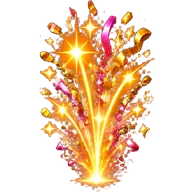
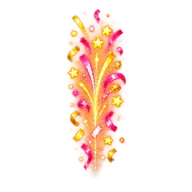
Удержи зал 0.20: фоны всех залов и новое конфетти
- Нарисованные фоны залов 2–5: пятничный бар, студенческая вечеринка, джаз-клуб,
  городской фестиваль.
- Новое конфетти с настоящей прозрачностью.

Claude-Session: https://claude.ai/code/session_01N7MgPggiJUE5CogxDpXCXx

diff --git a/hold-the-room/game.js b/hold-the-room/game.js
@@ -1040,7 +1040,7 @@ if (typeof window !== 'undefined') (function () {
   // Спрайты из assets/. Пока картинка не загрузилась (или её нет), рисуется старая векторная графика.
   const ART = {};
   const ART_NAMES = ['emo-heart', 'emo-note', 'emo-clap', 'gold-heart', 'gold-note', 'gold-clap',
-    'ghost-0', 'ghost-1', 'ghost-2', 'ghost-3', 'body-gray', 'body-color', 'bg-1']
+    'ghost-0', 'ghost-1', 'ghost-2', 'ghost-3', 'body-gray', 'body-color', 'bg-1', 'bg-2', 'bg-3', 'bg-4', 'bg-5']
     .concat(frameNames('spark', 8), frameNames('ring', 8), frameNames('confetti', 10), frameNames('fire', 8), frameNames('smoke', 8))
     .concat([0, 1, 2, 3, 4, 5, 6, 7].flatMap(g => [0, 1, 2].map(k => `v${g}-${k}`))); // зрители: 8 человек × (обычный, ликует, в телефоне)
   function frameNames(base, n) { return Array.from({ length: n }, (_, i) => `${base}-${i}`); }

diff --git a/hold-the-room/version.js b/hold-the-room/version.js
@@ -1,4 +1,4 @@
 // Версия релиза. Увеличивайте при каждой публикации: она видна в главном меню
 // и задаёт версию кэша service worker'а, так что клиенты подхватят обновление.
-const APP_VERSION = '0.19';
+const APP_VERSION = '0.20';
 const APP_DATE = '21.10.2026';

diff --git a/hold-the-room/sw.js b/hold-the-room/sw.js
@@ -93,6 +93,10 @@ const FILES = [
   './assets/v7-1.webp',
   './assets/v7-2.webp',
   './assets/bg-1.webp',
+  './assets/bg-2.webp',
+  './assets/bg-3.webp',
+  './assets/bg-4.webp',
+  './assets/bg-5.webp',
   './music/level1-bossa-antigua.mp3',
   './music/level2-backbay-lounge.mp3',
   './music/level3-funkorama.mp3',

diff --git a/hold-the-room/DESIGN.md b/hold-the-room/DESIGN.md
@@ -431,7 +431,9 @@
 - Версия 0.19: 8 зрителей × 3 позы (обычный, ликует, в телефоне; скучающие обесцвечиваются),
   нарисованный фон первого зала (`bg-1`), анимации волны (ярусы цепочки, тройки, волна
   Страха, фырканье критика — волна перекрашивается), конфетти (Кульминация и бис),
-  огненные фонтаны Пиротехники. Фоны остальных залов — `bg-2`…`bg-5`, подхватятся сами.
+  огненные фонтаны Пиротехники.
+- Версия 0.20: нарисованные фоны всех пяти залов (`bg-1`…`bg-5`), новое конфетти
+  с настоящей прозрачностью.
 
 ## 13. Отложено на потом
 
